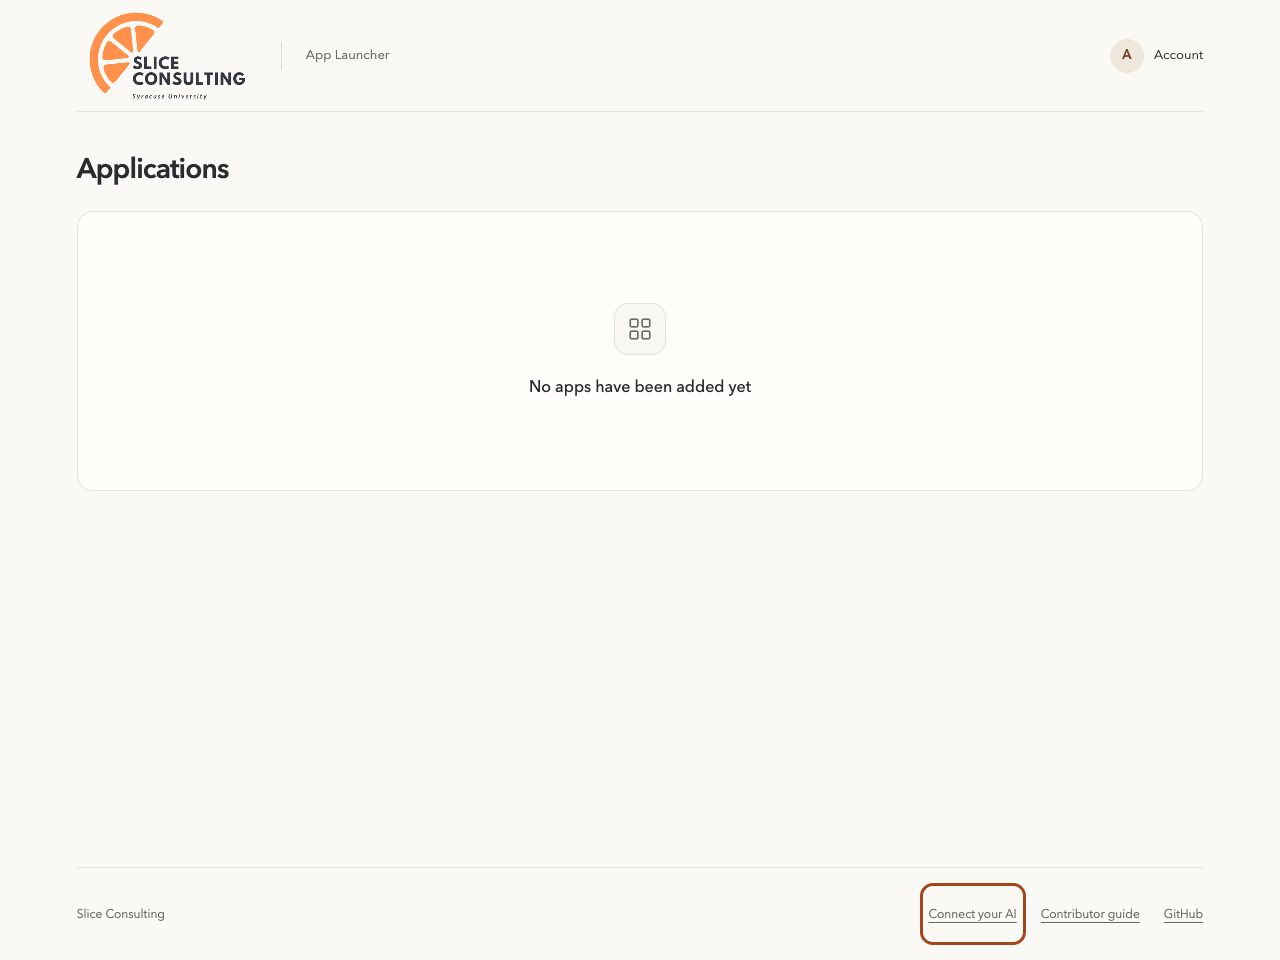
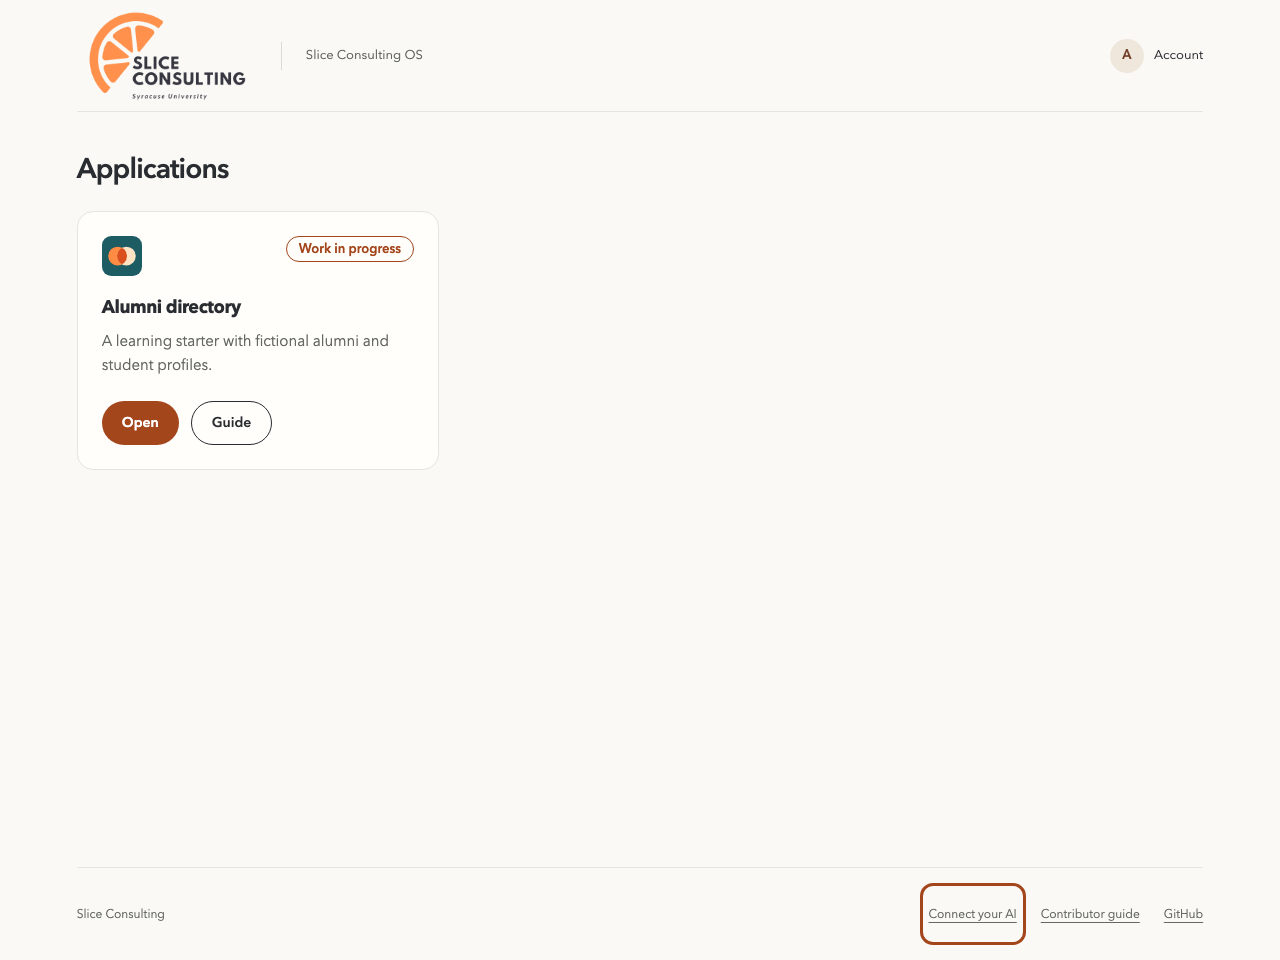
Rename the App Launcher to Slice Consulting OS
The header label, browser tab title, alumni guide, README and design
profile now use Slice Consulting OS. The organization name on the logo,
the signed-out front page and membership screens is unchanged.

Below 500px every header now keeps only the logo, since the longer name
wraps onto three lines beside it. The production check accepts the old
name as well so rollback to an earlier release still verifies.

diff --git a/platform/src/lib/page.test.ts b/platform/src/lib/page.test.ts
@@ -26,12 +26,11 @@ it("front page shows the Slice name and Google sign-in only", () => {
   expect(html).toContain("<h1");
   expect(html).toContain("Slice Consulting");
   expect(html).toContain('href="/api/auth/google/start"');
-  expect(html).not.toContain("App Launcher");
+  expect(html).not.toContain("workspace-label");
 });
 it("shows a useful empty state before any apps are published", () => {
   const html = renderToStaticMarkup(createElement(Launcher));
-  expect(html).toContain("Slice Consulting");
-  expect(html).toContain("App Launcher");
+  expect(html).toContain('<span class="workspace-label">Slice Consulting OS</span>');
   expect(html).toContain("No apps have been added yet");
 });
 it("renders the registered alumni starter and its platform link", () => {

diff --git a/platform/tests/e2e/front-page.spec.ts b/platform/tests/e2e/front-page.spec.ts
@@ -38,6 +38,7 @@ test("signed-in people still land on the launcher", async ({ browser }) => {
     const page = await context.newPage();
     await page.goto("/");
     await expect(page.getByRole("heading", { name: "Applications", level: 1 })).toBeVisible();
+    await expect(page.getByText("Slice Consulting OS", { exact: true })).toBeVisible();
     await expect(page.getByRole("link", { name: "Sign in with Google" })).toHaveCount(0);
   } finally {
     await context.close();

diff --git a/platform/app/connect-ai/page.tsx b/platform/app/connect-ai/page.tsx
@@ -23,7 +23,7 @@ export default function ConnectAiPage() {
           />
         </a>
         <div className="header-divider" aria-hidden="true" />
-        <span className="workspace-label">App Launcher</span>
+        <span className="workspace-label">Slice Consulting OS</span>
         <ConnectionStatus />
         <a className="account-link" href="/">
           Applications

diff --git a/platform/app/account/page.tsx b/platform/app/account/page.tsx
@@ -16,7 +16,7 @@ export default function AccountPage() {
           />
         </a>
         <div className="header-divider" aria-hidden="true" />
-        <span className="workspace-label">App Launcher</span>
+        <span className="workspace-label">Slice Consulting OS</span>
         <ConnectionStatus />
         <a className="account-link" href="/">
           Applications

diff --git a/platform/src/lib/home-views.tsx b/platform/src/lib/home-views.tsx
@@ -98,7 +98,7 @@ export function Launcher() {
       <header className="site-header">
         <Logo />
         <div className="header-divider" aria-hidden="true" />
-        <span className="workspace-label">App Launcher</span>
+        <span className="workspace-label">Slice Consulting OS</span>
         <ConnectionStatus />
         <AccountNav />
       </header>

diff --git a/platform/app/globals.css b/platform/app/globals.css
@@ -633,8 +633,9 @@ button.member-row:hover,
   .site-header {
     gap: 12px;
   }
-  .site-header:has(.account-nav) .workspace-label,
-  .site-header:has(.account-nav) .header-divider {
+  /* The logo already names Slice Consulting; the full product name does not fit beside it. */
+  .workspace-label,
+  .header-divider {
     display: none;
   }
   .account-nav {

diff --git a/platform/app/layout.tsx b/platform/app/layout.tsx
@@ -2,7 +2,7 @@ import type { Metadata } from "next";
 import "./globals.css";
 
 export const metadata: Metadata = {
-  title: "Slice Consulting | App Launcher",
+  title: "Slice Consulting OS",
   description: "Slice Consulting applications.",
 };
 

diff --git a/docs/images/launcher/README.md b/docs/images/launcher/README.md
@@ -1,7 +1,7 @@
 # Launcher layout evidence
 
-[Desktop preview](desktop.png) shows the launcher at 1280 × 960 with **Connect your AI** in the footer. Keyboard focus is visible on the link. Captured October 15, 2026 from the local synthetic browser harness; no private member data is included.
+[Desktop preview](desktop.png) shows the launcher at 1280 × 960 with the **Slice Consulting OS** name beside the logo and **Connect your AI** in the footer. Keyboard focus is visible on the link. [Mobile preview](mobile.png) shows the same screen at 390 × 844, where the header keeps only the logo and the account link. Both were captured November 15, 2026 from the local synthetic browser harness; no private member data is included.
 
-The full setup guide remains at `/connect-ai`. The mobile launcher screenshot could not be captured because the browser connection stopped responding during the viewport change. The existing automated setup-guide tests passed at desktop and mobile sizes, but those do not establish the launcher footer’s mobile appearance.
+The full setup guide remains at `/connect-ai`.
 
 To reproduce, run `pnpm --filter @slice/launcher test:e2e:server`, open `http://127.0.0.1:4173/`, and inspect the launcher at 1280px and 390px wide. Stop that server before running `pnpm test:e2e`.

diff --git a/docs/design-profile.md b/docs/design-profile.md
@@ -32,7 +32,7 @@ A prompt a consultant can paste:
 
 - Use only the original logo at `platform/public/brand/slice-logo.png`. Its source is recorded in [brand assets](brand-assets.md). Do not recolor, redraw, stretch, crop out the tagline, or add effects. The header fits its square canvas with `object-fit: cover` at 180×100 (144×80 on narrow screens).
 - The logo appears once, in the platform header, linking home with the accessible name "Slice Consulting home".
-- The product name in the interface is **Slice Consulting**; the launcher area is **App Launcher**. Individual apps use their catalog `name` from `app.json`.
+- The product name in the interface is **Slice Consulting OS**, shown beside the logo in the header and as the browser tab title. Below 500px the header keeps only the logo, because the full name does not fit beside it. The organization is still **Slice Consulting**: the logo, the signed-out front page heading and membership screens keep that name. Individual apps use their catalog `name` from `app.json`.
 - Do not add other organizations' marks, Syracuse University marks beyond what the supplied logo contains, or generated logos.
 
 ## Tokens

diff --git a/README.md b/README.md
@@ -1,8 +1,8 @@
 <img src="platform/public/brand/slice-logo.png" alt="Slice Consulting — Syracuse University" width="320" />
 
-# Slice Consulting platform
+# Slice Consulting OS
 
-One home for Slice Consulting's internal tools. Consultants sign in once; each tool uses the same account, permissions and release process.
+Slice Consulting OS is one home for Slice Consulting's internal tools. Consultants sign in once; each tool uses the same account, permissions and release process.
 
 **Live app:** [slice-launcher.ivan27chen.workers.dev](https://slice-launcher.ivan27chen.workers.dev) — sign in with your approved Slice account.
 

diff --git a/platform/apps/alumni/guide.md b/platform/apps/alumni/guide.md
@@ -4,7 +4,7 @@ The alumni directory helps consultants find former Slice members whose experienc
 
 ## What you can do today
 
-1. Open **Alumni directory** from the App Launcher.
+1. Open **Alumni directory** from Slice Consulting OS.
 2. Browse the sample alumni and student profiles.
 3. Read each profile's industry, role and interests to practise spotting a good connection.
 
